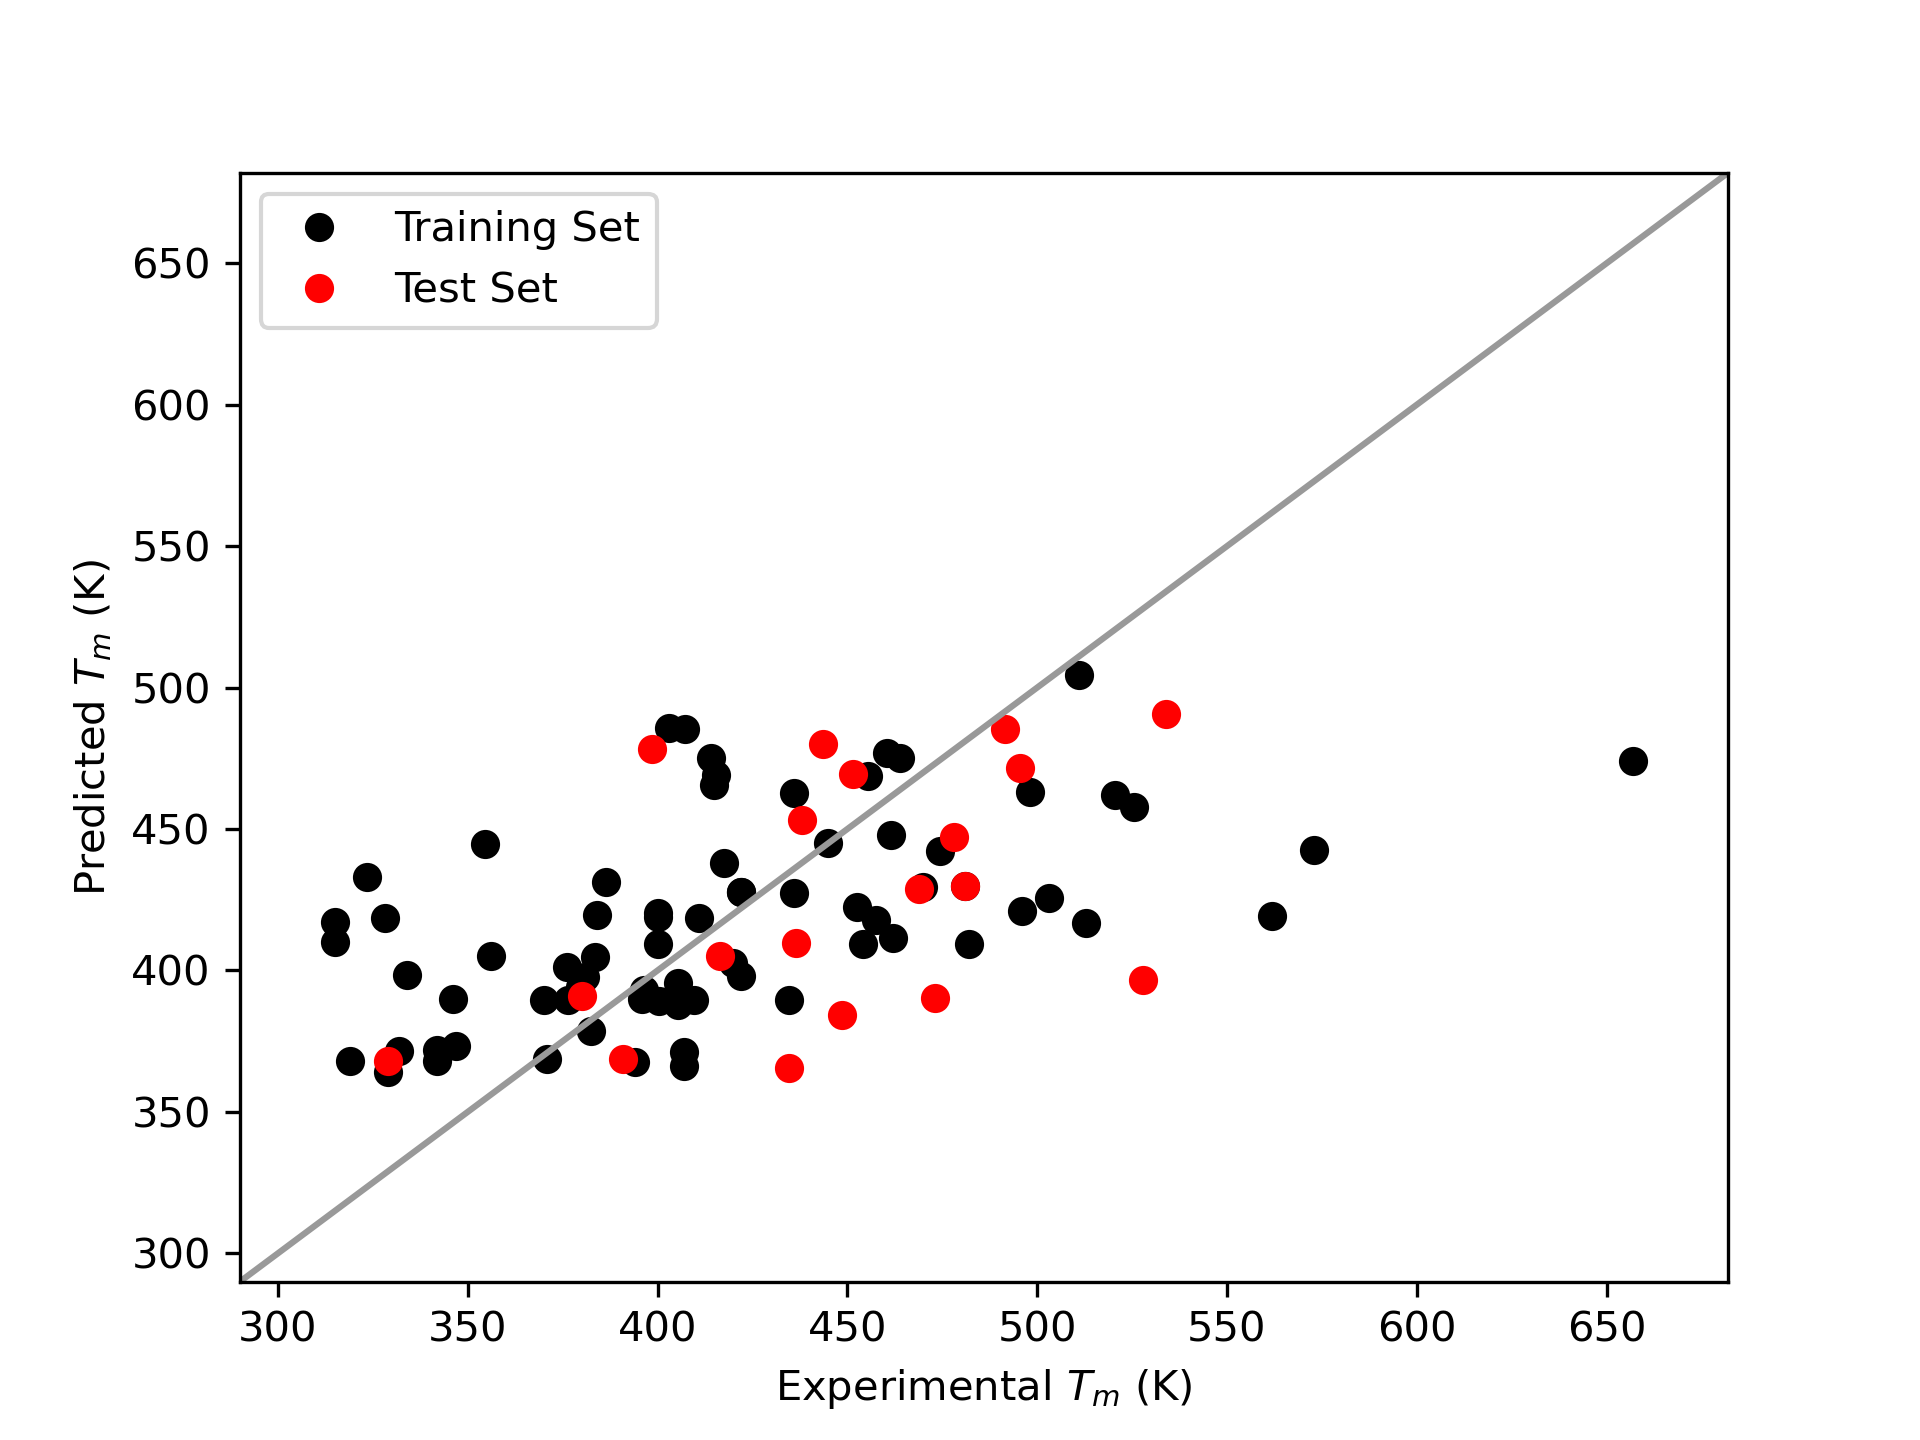
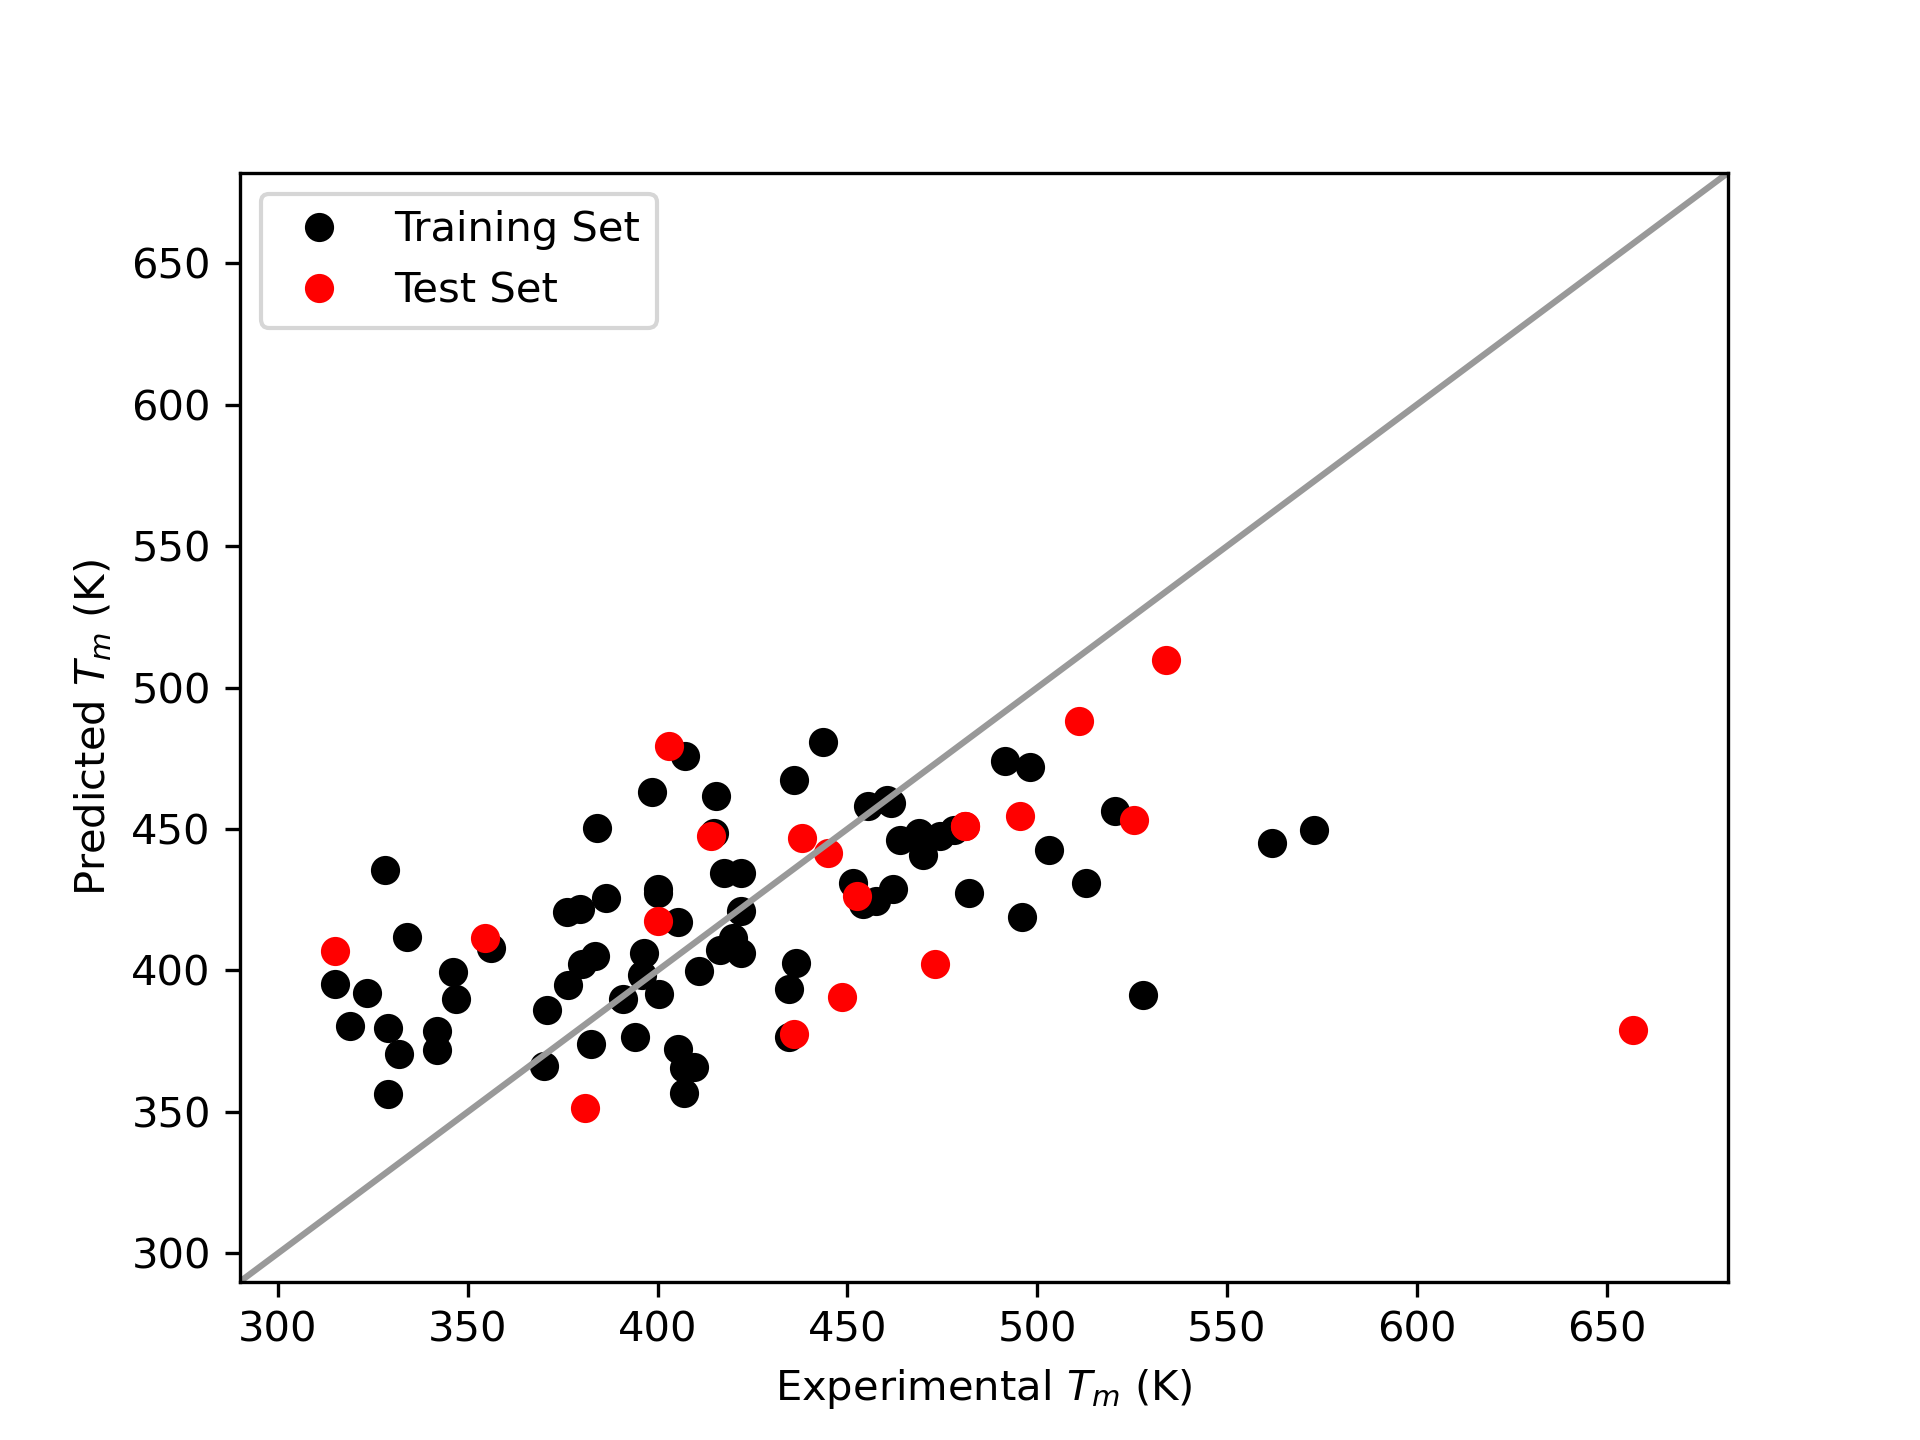
added combined bq+hq plot

diff --git a/mp_prediction_paper.py b/mp_prediction_paper.py
@@ -389,6 +389,7 @@ quinone_ML_data=pd.read_csv('parsed_p_benzoquinone_216.csv')
 hydroquinone_ML_data=pd.read_csv('parsed_p_hydroquinone_204.csv')
 #endregion
 
+##### QUINONE ML  PLOT #########
 ## EDIT BELOW HERE - Change working datase for Machine Learning Model ##
 # The 2 choices are "quinone_ML_data" or "hydroquinone_ML_data"
 working_ML_dataset=quinone_ML_data
@@ -552,6 +553,8 @@ elif working_ML_dataset.equals(hydroquinone_ML_data):
 
 #endregion
 ## STATIC BLOCK - DON'T MODIFY ANYTHING ABOVE HERE ##
+
+######### HYDROQUINONE ML PLOT ############## 
 
 working_ML_dataset=hydroquinone_ML_data
 # The training set and test set will only re-shuffle if do_featurization is set to true. Otherwise it will use the training and test set as split in the previous run where do_featurization was set to true to avoid the time required to featurize. 
@@ -896,6 +899,89 @@ We note that there appears to be a systematic underestimation of the melting poi
 
 Upon observing the similarities between the parameters for the quinone and hydroquinone models, we combined both into a single dataset and fit a new model - the combined Quinone+Hydroquinone dataset. 
 '''
+
+MAKING_NEW_PLOTS=True
+if MAKING_NEW_PLOTS:
+    ## EDIT BELOW HERE
+    ### Change datasets used, model form, starting guesses
+    #region
+    # Change the datasets that you're interested in looking at in this block. Make sure you change the names of the datasets appropriately. Note: All datasets you include here will be tested with the same model form. If you want to test different model forms for different datasets, you will have to test one dataset at a time and change the model form as desired for that single dataset.
+    datasets= [mega_database]
+    dataset_names= ['Quinones + Hydroquinones']
+    num_datasets= len(datasets)
+
+    # CHANGE MODEL NAME AND FORM HERE:
+    model_form_name= '$V_m^{-1}$ Numerator, Full Denominator'
+    model_form= '(parameters[0]*predictors["V_m (nm3)"]**(-1)+parameters[1])/(parameters[2]*np.log(predictors["sigma"])+parameters[3]*predictors["tau"]+1+parameters[4]*np.log(predictors["Eccentricity(Ear)"])+parameters[5]*np.log(predictors["Eccentricity(Eal)"]))'
+
+    # CHANGE STARTING GUESSES HERE
+    # Note: You must have the correct number of starting guesses to match the number of parameters in the model form, and you must also have the correct number of sets of starting guesses depending how many datasets you're testing at once.
+    starting_guesses= [[-2e+01,5e+02,-7e-02,3e-02,2e-02,2e-02]]
+
+    #endregion
+    ## EDIT ABOVE HERE
+
+    ## STATIC BLOCK - DON'T MODIFY ANYTHING BELOW HERE ##
+    #region
+    num_predictors= list(range(len(findstr(model_form, 'predictors'))))
+    used_predictors= []
+
+    for i in range(len(all_possible_predictors)):
+        this_predictor= all_possible_predictors[i]
+        if findstr(model_form, this_predictor):
+            used_predictors.append(this_predictor)
+    used_predictors= used_predictors+predicted
+    num_parameters= len(findstr(model_form, 'parameter'))
+
+    if num_parameters!=len(starting_guesses[0]):
+        raise Exception("Number of starting guesses doesn't match the number of parameters")
+
+    letters_in_use=letters_in_use[0:num_parameters]
+    num_parameters= list(range(num_parameters))
+
+    plots=list(range(num_datasets))
+    fig = plt.figure()      
+    for i in range(num_datasets):
+        avg_model_err=[0,0]
+        rmse_err=[0,0]
+        number_of_runs=5
+        count=0
+        bqhq_parameters=np.zeros((number_of_runs,len(num_parameters)))
+        while count < number_of_runs:
+            dataset= datasets[i]
+            pd.set_option("display.max_rows", None, "display.max_columns", None)
+            dataset_name=dataset_names[i]
+            dataset_length= len(dataset)
+            predictors= dataset[used_predictors].loc[2:dataset_length]
+            predictors= predictors.astype('float64')
+            [dataset_train,dataset_test]=split_data(predictors)
+            (letters_in_use,_)=opt.curve_fit(fit_tm_model,dataset_train,dataset_train['T_m (K)'],(starting_guesses[i]))
+            
+            if statistics.mean(np.absolute(fit_tm_model_err(dataset_test,letters_in_use)
+            -dataset_test['T_m (K)']))/(number_of_runs)<(70/number_of_runs) and letters_in_use[0]<0:
+                #st.write(letters_in_use)
+                bqhq_parameters[count,:]=letters_in_use
+                avg_model_err[0]=avg_model_err[0]+(statistics.mean(np.absolute(fit_tm_model_err
+                (dataset_test,letters_in_use)-dataset_test['T_m (K)']))/(number_of_runs))
+                avg_model_err[1]=avg_model_err[1]+(statistics.mean(np.absolute(fit_tm_model_err
+                (dataset_train,letters_in_use)-dataset_train['T_m (K)']))/(number_of_runs))
+                count=count+1
+                rmse_err[0]=rmse_err[0]+rmse((fit_tm_model_err(dataset_test,letters_in_use)),dataset_test['T_m (K)'])/(number_of_runs)
+                rmse_err[1]=rmse_err[1]+rmse((fit_tm_model_err(dataset_train,letters_in_use)),dataset_train['T_m (K)'])/(number_of_runs)
+
+        ax= (make_plots(dataset_test,dataset_train,letters_in_use,dataset_name,avg_model_err,rmse_err))
+        plots[i]= ax
+    plt.gcf()
+    plt.savefig('BQHQ_plot.png',dpi=300)
+    st.write(plots[i])
+#endregion
+    ## STATIC BLOCK - DON'T MODIFY ANYTHING ABOVE HERE ##
+
+    st.markdown('''VBT model assuming dipole-dipole interaction for combined quinone and hydroquinone dataset. Training set absolute average error is {:.2f} C and test set average absolute error is {:.2f} C. Training set RMSE is {:.2f} C and test set RMSE is {:.2f} C, based on the average over five runs of the model.'''.format(avg_model_err[1],avg_model_err[0],rmse_err[1],rmse_err[0]) )
+else: 
+    hq_plot=Image.open('HQ_plot.png')
+    st.image(hq_plot,caption='VBT model assuming dipole-dipole interaction for hydroquinone dataset.',use_column_width=True)
+
 # Experimental Section
 r'''
 ## Experimental
@@ -914,12 +1000,15 @@ Once all the compounds were downloaded we had to further process the data for mo
 hc_parameters_df=pd.DataFrame(data=hc_parameters,index=["Run 1","Run 2","Run 3","Run 4","Run 5"],columns=["g","h","a","b","c","d"])
 bq_parameters_df=pd.DataFrame(data=bq_parameters,index=["Run 1","Run 2","Run 3","Run 4","Run 5"],columns=["g","h","a","b","c","d"])
 hq_parameters_df=pd.DataFrame(data=hq_parameters,index=["Run 1","Run 2","Run 3","Run 4","Run 5"],columns=["g","h","a","b","c","d"])
+bqhq_parameters_df=pd.DataFrame(data=bqhq_parameters,index=["Run 1","Run 2","Run 3","Run 4","Run 5"],columns=["g","h","a","b","c","d"])
 st.markdown('''### Hydrocarbon Parameters ''')
 st.write(hc_parameters_df)
 st.markdown('''### Quinone Parameters ''')
 st.write(bq_parameters_df)
 st.markdown('''### Hydroquinone Parameters ''')
 st.write(hq_parameters_df)
+st.markdown('''### Quinone + Hydroquinone Parameters ''')
+st.write(bqhq_parameters_df)
 
 # How to put code in markdown using python formatting
     # '''
